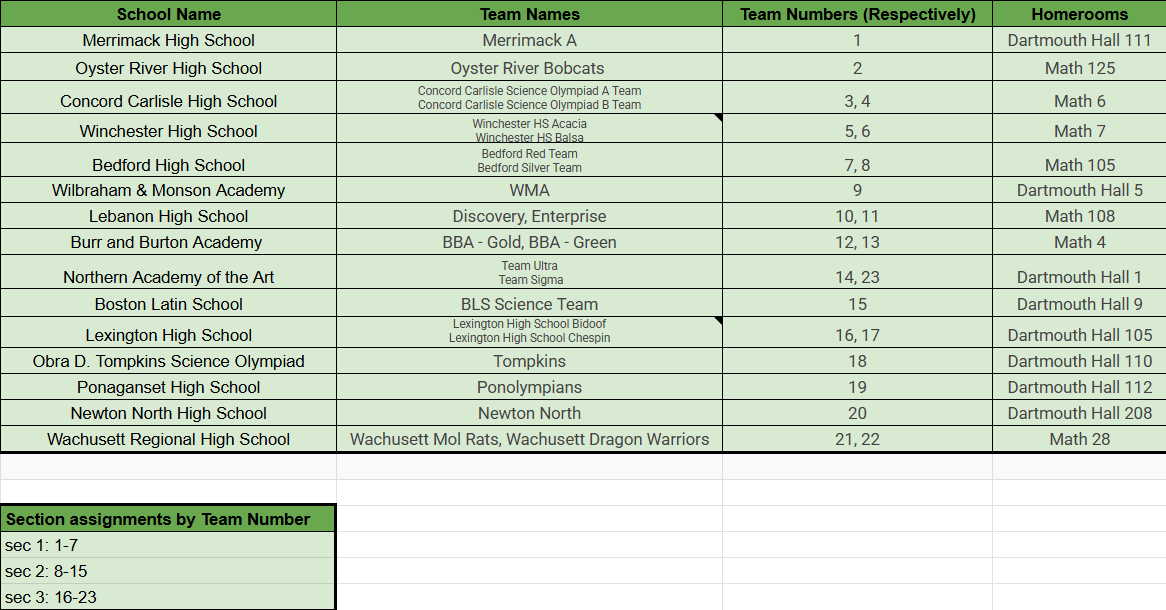
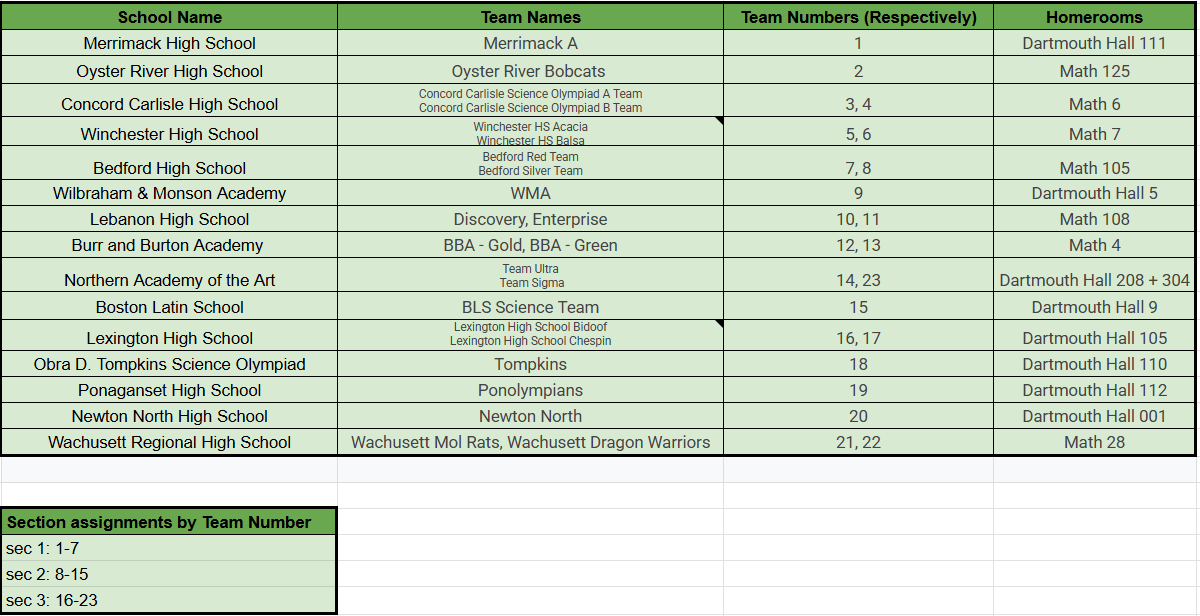
new update

Changed region(s): [[0.0, 0.0, 1.0, 0.7475], [0.0, 0.7787, 1.0, 1.0], [0.988, 0.9033, 1.0, 0.9656]]

diff --git a/schedule.html b/schedule.html
@@ -28,17 +28,16 @@
                 <h3>NOTE: This is last year's schedule, the 2026 schedule has not been released yet.</h3>
                 -->
                 <p>The current schedule for the 2026 edition of the Dartmouth Undergraduate Science Olympiad is below.</p>
-                <p>Out soon: Sign up for build events, homeroom numbers</p>
+                <p>Out soon: Sign up for build events</p>
 
                 <div>
-                    <img src="images/schedule_26_02_16.png" height="100%" width="100%">
+                    <img src="images/schedule_26_02_17.png" height="100%" width="100%">
                 </div>
                 
-                <!--
                 <br>
                 <h2>Homeroom Numbers and Team Assignments</h2>
                 <img src="images/team_numbers_2026.png" height="100%" width="100%">
-                -->
+                
                 <br>
                 <h2>Campus Map</h2>
                 <p>IMPORTANT: Time estimates are provided below for distances between buildings.

diff --git a/updates.html b/updates.html
@@ -25,6 +25,9 @@
                 <h1>Announcements and Updates</h1>
                 <h3>Stay tuned for more info!</h3>
                 <p>
+                    2/17/25: 2026 tournament homeroom assignments and team numbers are out!
+                </p>
+                <p>
                     2/16/25: 2026 tournament schedule just released!
                     More info <a href="schedule.html">here</a>.
                 </p>
